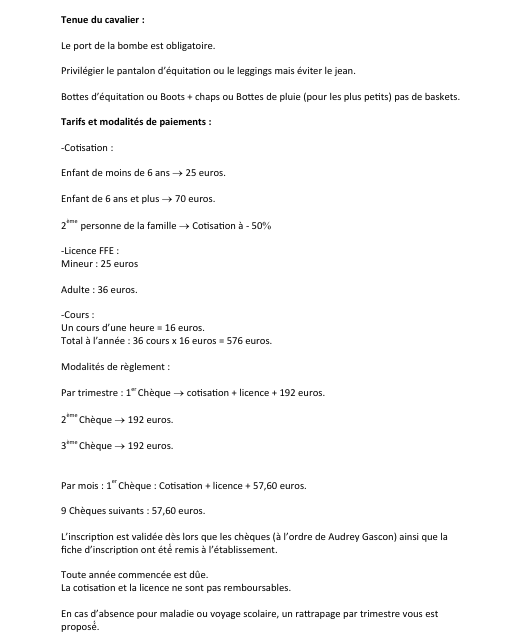
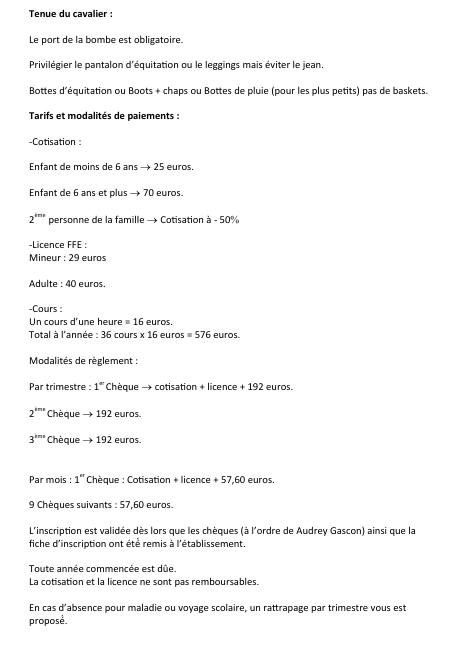
changement tarif licence

Changed region(s): [[0.0602, 0.0, 0.9032, 1.0]]

diff --git a/tarifs.html b/tarifs.html
@@ -65,8 +65,8 @@
                     <div class="col-12 col-lg-4 px-3 py-2">                   
                         <h3 class="scroll-apparition yellow-underline bg-center text-center">Licence FFE </h3>
                         <ul style= "list-style-type: circle" class="mt-3">
-                            <li class="apparition-right-1 scroll-apparition">Mineur = 25€</li>  
-                            <li class="apparition-right-2 scroll-apparition">Adulte = 36€</li> 
+                            <li class="apparition-right-1 scroll-apparition">Mineur = 29€</li>  
+                            <li class="apparition-right-2 scroll-apparition">Adulte = 40€</li> 
                         </ul>
                     </div>
                     <div class="col-12 col-lg-4 px-3 py-2">                   
